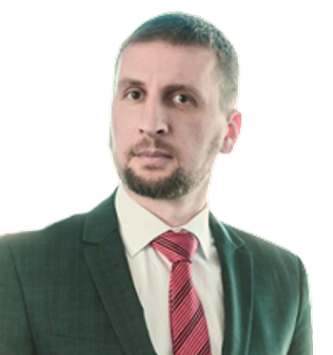
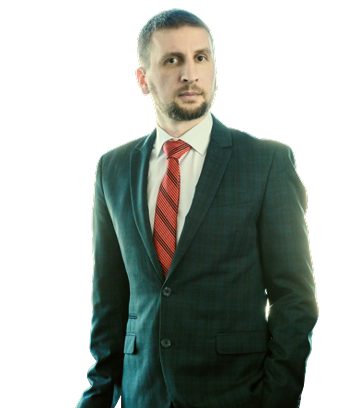
fixed borders width

diff --git a/assets/style.css b/assets/style.css
@@ -920,8 +920,18 @@ a {
 }
 .speakers__star--border {
   background-color: rgba(0, 0, 0, 0);
-  border: 4px solid #A3A3A3;
+  border: 2px solid #A3A3A3;
   border-bottom: 0;
+}
+@media (min-width: 640px) {
+  .speakers__star--border {
+    border-width: 3px;
+  }
+}
+@media (min-width: 1200px) {
+  .speakers__star--border {
+    border-width: 6px;
+  }
 }
 .speakers__star--left {
   text-align: right;
@@ -963,8 +973,18 @@ a {
 }
 .speakers__left--border {
   background-color: rgba(0, 0, 0, 0);
-  border: 4px solid #A3A3A3;
+  border: 2px solid #A3A3A3;
   border-right: 0;
+}
+@media (min-width: 640px) {
+  .speakers__left--border {
+    border-width: 3px;
+  }
+}
+@media (min-width: 1200px) {
+  .speakers__left--border {
+    border-width: 6px;
+  }
 }
 .speakers__right {
   height: 100%;
@@ -978,9 +998,19 @@ a {
 }
 .speakers__right--border {
   background-color: rgba(0, 0, 0, 0);
-  border: 4px solid #A3A3A3;
+  border: 2px solid #A3A3A3;
   border-left: 0;
   border-top: 0;
+}
+@media (min-width: 640px) {
+  .speakers__right--border {
+    border-width: 3px;
+  }
+}
+@media (min-width: 1200px) {
+  .speakers__right--border {
+    border-width: 6px;
+  }
 }
 .speakers__photo {
   margin: 0 0 30px 30px;
@@ -989,11 +1019,15 @@ a {
   border: 2px solid #A3A3A3;
   background: #fff;
   border-radius: 16px;
-  -o-object-fit: cover;
-     object-fit: cover;
 }
 .speakers__photo--left {
   margin: 0 30px 30px 0;
+}
+.speakers__photo--contain {
+  -o-object-fit: contain;
+     object-fit: contain;
+  -o-object-position: top;
+     object-position: top;
 }
 @media (min-width: 640px) {
   .speakers__photo {
@@ -1924,15 +1958,15 @@ a {
 .program__list {
   display: flex;
   flex-wrap: wrap;
-  gap: 30px;
+  gap: 2vw;
 }
 .program__list-item {
-  flex-basis: calc(50% - 15px);
+  flex-basis: calc(50% - 1vw - 1px);
   border-radius: 30px;
-  max-width: calc(50% - 15px);
+  max-width: calc(50% - 1vw - 1px);
   background-color: var(--color-white);
   border: 2px solid var(--color-dark);
-  padding: 30px;
+  padding: 3vw 2vw;
   display: flex;
   flex-direction: column;
   justify-content: space-between;
@@ -1953,8 +1987,8 @@ a {
 }
 @media (min-width: 1200px) {
   .program__list-item {
-    max-width: calc(25% - 22.5px);
-    flex-basis: calc(25% - 22.5px);
+    max-width: calc(25% - 1.5vw - 1px);
+    flex-basis: calc(25% - 1.5vw - 1px);
   }
 }
 .program__name {

diff --git a/assets/css/_speakers.scss b/assets/css/_speakers.scss
@@ -142,8 +142,17 @@
 
         &--border {
             background-color: rgba(0, 0, 0, 0);
-            border: 4px solid #A3A3A3;
+            border: 2px solid #A3A3A3;
             border-bottom: 0;
+
+            @media (min-width: 640px) {
+                border-width: 3px;
+            }
+    
+    
+            @media (min-width: 1200px) {
+                border-width: 6px;
+            }
         }
 
         &--left {
@@ -179,6 +188,7 @@
         top: 5vw;
         display: flex;
         flex-direction: column;
+
         @media (min-width: 640px) {
             left: 2vw;
             right: 2vw;
@@ -207,8 +217,17 @@
 
         &--border {
             background-color: rgba(0, 0, 0, 0);
-            border: 4px solid #A3A3A3;
+            border: 2px solid #A3A3A3;
             border-right: 0;
+
+            @media (min-width: 640px) {
+                border-width: 3px;
+            }
+    
+    
+            @media (min-width: 1200px) {
+                border-width: 6px;
+            }
 
         }
     }
@@ -227,9 +246,18 @@
         &--border {
             background-color: rgba(0, 0, 0, 0);
 
-            border: 4px solid #A3A3A3;
+            border: 2px solid #A3A3A3;
             border-left: 0;
             border-top: 0;
+
+            @media (min-width: 640px) {
+                border-width: 3px;
+            }
+
+
+            @media (min-width: 1200px) {
+                border-width: 6px;
+            }
         }
 
     }
@@ -243,10 +271,14 @@
         // aspect-ratio: 1;
         background: #fff;
         border-radius: 16px;
-        object-fit: cover;
 
         &--left {
             margin: 0 30px 30px 0;
+        }
+
+        &--contain {
+            object-fit: contain;
+            object-position: top;
         }
 
         @media (min-width: 640px) {

diff --git a/assets/css/_program.scss b/assets/css/_program.scss
@@ -38,17 +38,17 @@
     &__list {
         display: flex;
         flex-wrap: wrap;
-        gap: 30px;
+        gap: 2vw;
     }
 
     &__list-item {
-        flex-basis: calc(50% - 30px / 2);
+        flex-basis: calc(50% - 2vw / 2 - 1px);
         border-radius: 30px;
-        max-width: calc(50% - 30px / 2);
+        max-width: calc(50% - 2vw / 2 - 1px);
 
         background-color: var(--color-white);
         border: 2px solid var(--color-dark);
-        padding: 30px;
+        padding: 3vw 2vw;
         display: flex;
         flex-direction: column;
         justify-content: space-between;
@@ -72,8 +72,8 @@
         }
 
         @media (min-width: 1200px) {
-            max-width: calc(25% - 30px * 3 / 4);
-            flex-basis: calc(25% - 30px * 3 / 4);
+            max-width: calc(25% - 2vw * 3 / 4 - 1px);
+            flex-basis: calc(25% - 2vw * 3 / 4 - 1px);
         }
     }
 

diff --git a/index.html b/index.html
@@ -180,7 +180,8 @@
                     </div> -->
                     <div class="speakers__item ">
                         <div class="speakers__item-top">
-                            <img src="assets/images/speaker-1.png" alt="" class="speakers__photo speakers__photo--left">
+                            <img src="assets/images/speaker-1.png" alt=""
+                                class="speakers__photo speakers__photo--left speakers__photo--contain">
                             <div class="speakers__star speakers__star--left speakers__star--border">
                                 <img class="star" src="./assets/images/star-w.svg" alt="">
                                 <!-- <div class="square-with-hole-speakers square-with-hole-speakers--left"></div> -->
